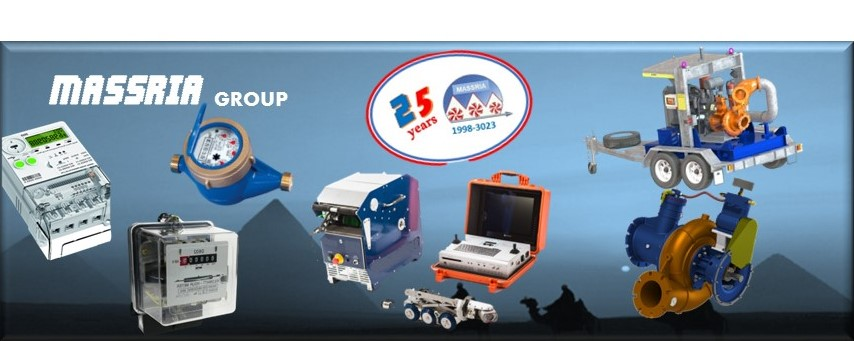
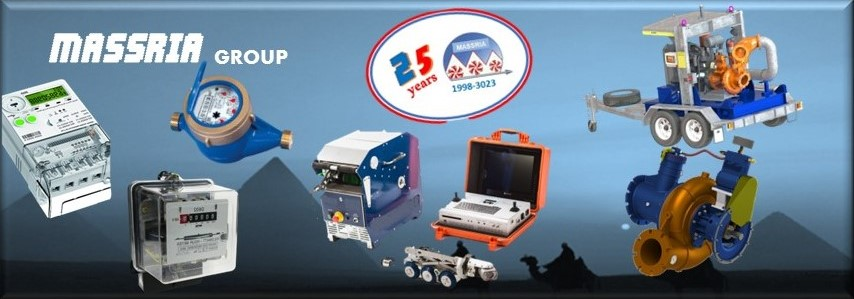
editing slider in mobile size

diff --git a/styles.css b/styles.css
@@ -25,23 +25,23 @@
   position: absolute;
   z-index: 2;
 }
-/*.carousel img{
-  height: 100vh;
-}*/
+.carousel {
+  margin-top: 72px;
+}
 .carousel-item img {
   max-height: 600px;
   width: auto;
   height: auto;
   max-width: 100%;
   margin: auto;
-  min-height: 35vh;
+ /* min-height: 35vh;*/
   object-fit: cover;
 }
-@media (max-width: 1180px){
+/*@media (max-width: 1180px){
   .carousel-item img{
-    height: 35vh;
+    height: auto;
   }
-}
+}*/
 .carouselText{
   color: white;
   font-weight: bold;
@@ -310,12 +310,15 @@ a {
 .contact{
   border-bottom: 1px solid #e0e3ef;
 }
-.contact .footer-top a{
+.contact .footer-top a , .contactCards a{
   text-decoration: none;
   color: #212521;
 }
-.contact .footer-top a:hover{
+.contact .footer-top a:hover , .contactCards a:hover{
   color: #3866aa;
+}
+.contact .footer-top p{
+  font-size: 1rem;
 }
 .contact i{
   color: #173e77;

diff --git a/index.html b/index.html
@@ -112,7 +112,7 @@
                                                 <a class="mb-0" href="https://maps.app.goo.gl/MNU6m9JFCfRRDPqJ6"><p class="mb-0" style="font-weight: bold;">Head office:</p> 46 saqr qurish ,Masaken sheraton ,Egypt – Cairo 11799</a>
                                             </div>
                                         
-                                            <div class="d-flex align-items-center">
+                                            <div class="d-flex align-items-center" style="margin: 10px 0;">
                                                 <i class="fa-solid fa-location-dot"></i>
                                                 <a class="mb-0"><p class="mb-0" style="font-weight: bold;">Factory location: </p> Badr industrial City , Light & Medium Zone 37</a>
                                             </div>

diff --git a/aboutUs.html b/aboutUs.html
@@ -186,7 +186,7 @@
                                             <a class="mb-0" href="https://maps.app.goo.gl/MNU6m9JFCfRRDPqJ6"><p class="mb-0" style="font-weight: bold;">Head office:</p> 46 saqr qurish ,Masaken sheraton ,Egypt – Cairo 11799</a>
                                         </div>
                                     
-                                        <div class="d-flex align-items-center">
+                                        <div class="d-flex align-items-center" style="margin: 10px 0;">
                                             <i class="fa-solid fa-location-dot"></i>
                                             <a class="mb-0"><p class="mb-0" style="font-weight: bold;">Factory location: </p> Badr industrial City , Light & Medium Zone 37</a>
                                         </div>

diff --git a/product.html b/product.html
@@ -121,7 +121,7 @@
                                         <a class="mb-0" href="https://maps.app.goo.gl/MNU6m9JFCfRRDPqJ6"><p class="mb-0" style="font-weight: bold;">Head office:</p> 46 saqr qurish ,Masaken sheraton ,Egypt – Cairo 11799</a>
                                     </div>
                                 
-                                    <div class="d-flex align-items-center">
+                                    <div class="d-flex align-items-center" style="margin: 10px 0;">
                                         <i class="fa-solid fa-location-dot"></i>
                                         <a class="mb-0"><p class="mb-0" style="font-weight: bold;">Factory location: </p> Badr industrial City , Light & Medium Zone 37</a>
                                     </div>
